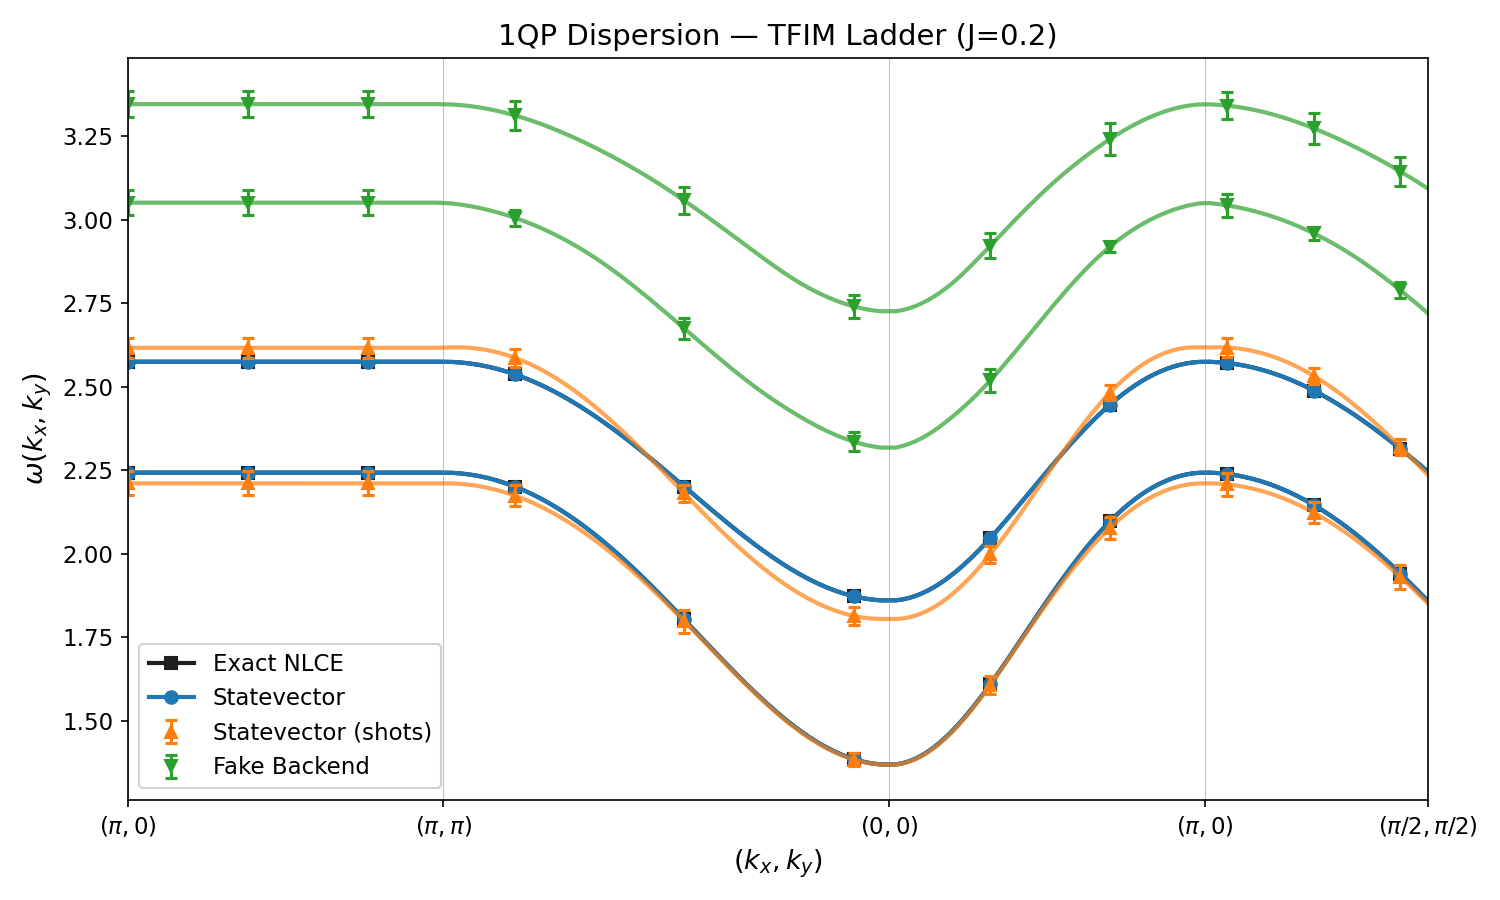
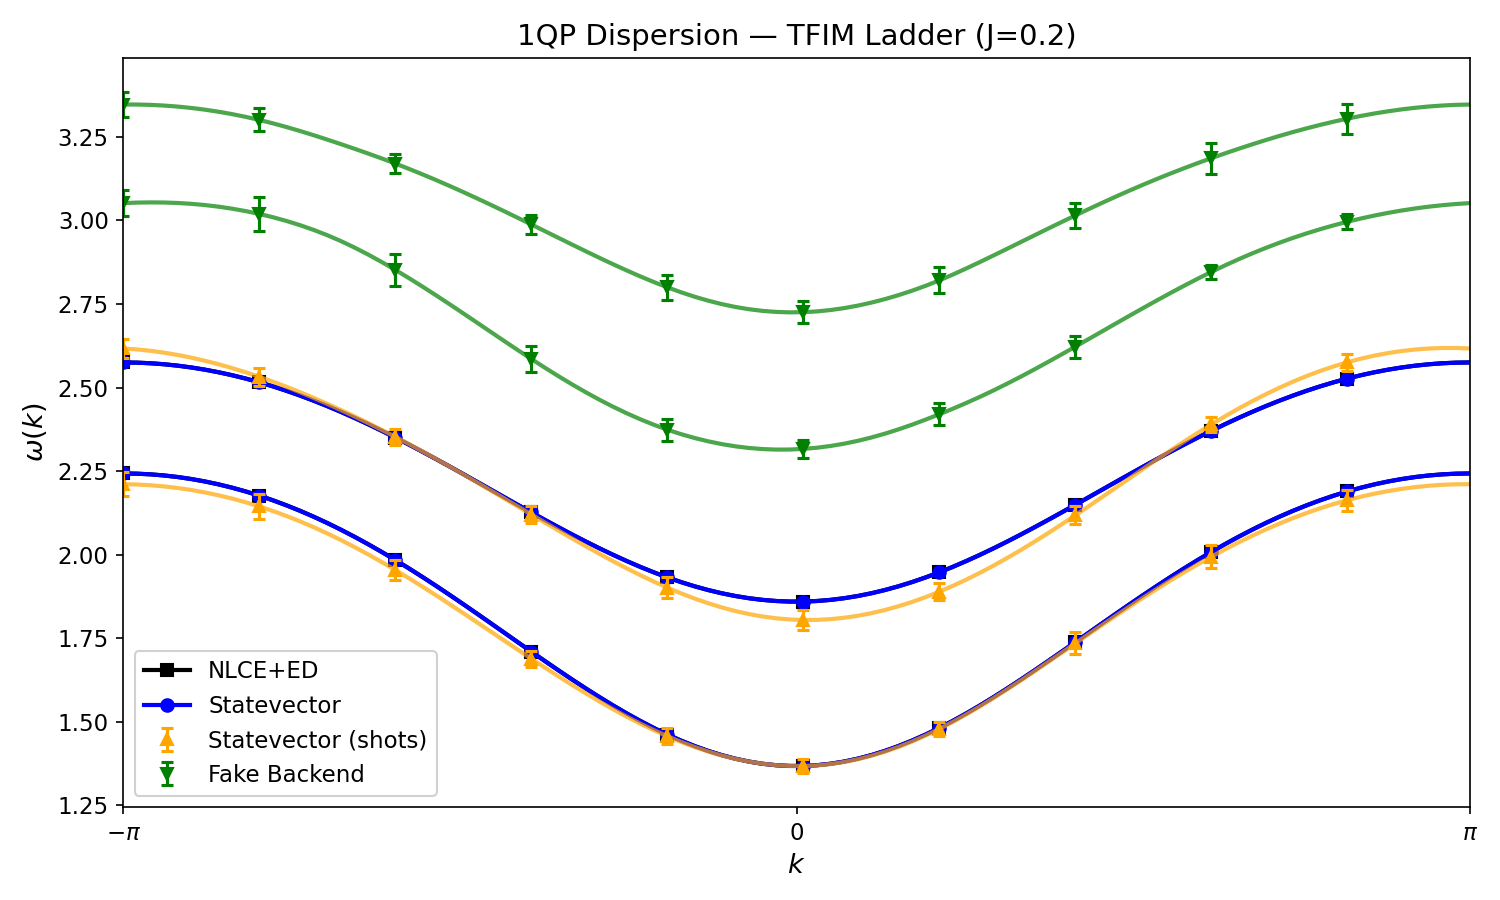
dispersion code correction

diff --git a/src/qcomp_nlce/simulation/vqe/plot_dispersion_ladder.py b/src/qcomp_nlce/simulation/vqe/plot_dispersion_ladder.py
@@ -16,62 +16,12 @@ def _cluster_dir(n_rungs: int, J: float, hl: float) -> Path:
     return DATA_DIR / f"j{int(J*100)}_hl{int(hl*100)}" / f"{n_rungs}x2"
 
 
-# ── High-symmetry path ──────────────────────────────────────────────────────
-
-def high_symmetry_path(n_points_per_segment: int = 50):
-    """Build the high-symmetry path:
-        (pi,0) -> (pi,pi) -> (0,0) -> (pi,0) -> (pi/2,pi/2)
-
-    Returns:
-        kxs, kys: arrays of (kx, ky) along the path
-        tick_positions: cumulative-distance positions of the corner points
-        tick_labels: labels for the corner points
-    """
-    corners = [
-        (np.pi, 0),
-        (np.pi, np.pi),
-        (0, 0),
-        (np.pi, 0),
-        (np.pi / 2, np.pi / 2),
-    ]
-    labels = [
-        r"$(\pi,0)$",
-        r"$(\pi,\pi)$",
-        r"$(0,0)$",
-        r"$(\pi,0)$",
-        r"$(\pi/2,\pi/2)$",
-    ]
-
-    kxs, kys, dists = [], [], []
-    cum_dist = 0.0
-    tick_positions = [0.0]
-
-    for i in range(len(corners) - 1):
-        x0, y0 = corners[i]
-        x1, y1 = corners[i + 1]
-        seg_len = np.sqrt((x1 - x0) ** 2 + (y1 - y0) ** 2)
-
-        # Don't duplicate the start point of each segment (except the very first)
-        n = n_points_per_segment
-        t = np.linspace(0, 1, n, endpoint=(i == len(corners) - 2))
-        if i > 0:
-            t = t[1:]  # skip duplicate corner
-
-        for ti in t:
-            kxs.append(x0 + ti * (x1 - x0))
-            kys.append(y0 + ti * (y1 - y0))
-            dists.append(cum_dist + ti * seg_len)
-
-        cum_dist += seg_len
-        tick_positions.append(cum_dist)
-
-    return (
-        np.array(kxs),
-        np.array(kys),
-        np.array(dists),
-        tick_positions,
-        labels,
-    )
+def k_vals(n_points: int = 100):
+   
+    ks = np.linspace(-np.pi, np.pi, n_points)
+    tick_positions = [-np.pi, 0.0, np.pi]
+    tick_labels = [r"$-\pi$", r"$0$", r"$\pi$"]
+    return ks, tick_positions, tick_labels
 
 
 # ── Loading ──────────────────────────────────────────────────────────────────
@@ -120,10 +70,10 @@ def plot_nlce_ladder(
     J: float,
     hl: float,
     save: bool = True,
-    n_points_per_segment: int = 50,
+    n_points: int = 100,
 ):
-    """Plot NLCE ladder dispersion along the high-symmetry BZ path."""
-    kxs, kys, dists, tick_pos, tick_labels = high_symmetry_path(n_points_per_segment)
+    """Plot NLCE ladder dispersion along k = 0 to pi."""
+    ks, tick_pos, tick_labels = k_vals(n_points)
 
     # Load all needed cluster sizes
     all_n = sorted(set(n for pair in cluster_pairs for n in pair))
@@ -133,44 +83,42 @@ def plot_nlce_ladder(
 
     # Style constants matching reference figure
     COLORS = {
-        "ed": "#1f1f1f",       # black — Exact NLCE
-        "sv": "#1f77b4",       # blue — Statevector
-        "sv_shots": "#ff7f0e", # orange — Statevector (shots)
-        "fb": "#2ca02c",       # green — Fake Backend
+        "ed": "black",       
+        "sv": "blue",       
+        "sv_shots":"orange", 
+        "fb": "green",       
     }
     MARKERS = {
-        "ed": "s",             # square
-        "sv": "o",             # circle
-        "sv_shots": "^",       # triangle up
-        "fb": "v",             # triangle down
+        "ed": "s",             
+        "sv": "o",             
+        "sv_shots": "^",       
+        "fb": "v",             
     }
     LW = 2.0
     MS = 6
-    # Subsample points for markers so they don't overlap
-    n_k = len(dists)
+    n_k = len(ks)
     marker_every = max(1, n_k // 10)
 
     for idx, (n_big, n_small) in enumerate(cluster_pairs):
         big, small = cache[n_big], cache[n_small]
-        n_max = 2 * n_big  # total qubits in biggest cluster
 
         # ED — two bands
         if big["ed"] is not None and small["ed"] is not None:
-            disp = np.array([dispersion_ladder_thermodynamic(kx, ky, big["ed"], small["ed"])
-                             for kx, ky in zip(kxs, kys)])  # shape (n_k, 2)
+            disp = np.array([dispersion_ladder_thermodynamic(k, big["ed"], small["ed"])
+                             for k in ks])  # shape (n_k, 2)
             for band in range(disp.shape[1]):
-                label = f"Exact NLCE" if band == 0 else None
-                ax.plot(dists, disp[:, band], '-', color=COLORS["ed"],
+                label = "NLCE+ED" if band == 0 else None
+                ax.plot(ks, disp[:, band], '-', color=COLORS["ed"],
                         marker=MARKERS["ed"], markevery=marker_every, markersize=MS,
                         linewidth=LW, label=label)
 
         # Exact SV (VQE) — two bands
         if big["sv"] is not None and small["sv"] is not None:
-            disp = np.array([dispersion_ladder_thermodynamic(kx, ky, big["sv"], small["sv"])
-                             for kx, ky in zip(kxs, kys)])
+            disp = np.array([dispersion_ladder_thermodynamic(k, big["sv"], small["sv"])
+                             for k in ks])
             for band in range(disp.shape[1]):
-                label = f"Statevector" if band == 0 else None
-                ax.plot(dists, disp[:, band], '-', color=COLORS["sv"],
+                label = "Statevector" if band == 0 else None
+                ax.plot(ks, disp[:, band], '-', color=COLORS["sv"],
                         marker=MARKERS["sv"], markevery=marker_every, markersize=MS,
                         linewidth=LW, label=label)
 
@@ -178,8 +126,8 @@ def plot_nlce_ladder(
         if big["sv_shots"] and small["sv_shots"]:
             n_reps = min(len(big["sv_shots"]), len(small["sv_shots"]))
             all_disp = np.array([
-                [dispersion_ladder_thermodynamic(kx, ky, big["sv_shots"][r], small["sv_shots"][r])
-                 for kx, ky in zip(kxs, kys)]
+                [dispersion_ladder_thermodynamic(k, big["sv_shots"][r], small["sv_shots"][r])
+                 for k in ks]
                 for r in range(n_reps)
             ])  # shape (n_reps, n_k, 2)
             mean = np.mean(all_disp, axis=0)  # (n_k, 2)
@@ -187,10 +135,10 @@ def plot_nlce_ladder(
                    if n_reps > 1 else np.zeros_like(mean))
             marker_idx = np.arange(0, n_k, marker_every)
             for band in range(mean.shape[1]):
-                label = f"Statevector (shots)" if band == 0 else None
-                ax.plot(dists, mean[:, band], '-', color=COLORS["sv_shots"],
+                label = "Statevector (shots)" if band == 0 else None
+                ax.plot(ks, mean[:, band], '-', color=COLORS["sv_shots"],
                         linewidth=LW, alpha=0.7)
-                ax.errorbar(dists[marker_idx], mean[marker_idx, band],
+                ax.errorbar(ks[marker_idx], mean[marker_idx, band],
                             yerr=sem[marker_idx, band],
                             fmt=MARKERS["sv_shots"], color=COLORS["sv_shots"],
                             markersize=MS, capsize=3, capthick=1.5,
@@ -200,8 +148,8 @@ def plot_nlce_ladder(
         if big["fb"] and small["fb"]:
             n_reps = min(len(big["fb"]), len(small["fb"]))
             all_disp = np.array([
-                [dispersion_ladder_thermodynamic(kx, ky, big["fb"][r], small["fb"][r])
-                 for kx, ky in zip(kxs, kys)]
+                [dispersion_ladder_thermodynamic(k, big["fb"][r], small["fb"][r])
+                 for k in ks]
                 for r in range(n_reps)
             ])  # shape (n_reps, n_k, 2)
             mean = np.mean(all_disp, axis=0)
@@ -209,24 +157,20 @@ def plot_nlce_ladder(
                    if n_reps > 1 else np.zeros_like(mean))
             marker_idx = np.arange(0, n_k, marker_every)
             for band in range(mean.shape[1]):
-                label = f"Fake Backend" if band == 0 else None
-                ax.plot(dists, mean[:, band], '-', color=COLORS["fb"],
+                label = "Fake Backend" if band == 0 else None
+                ax.plot(ks, mean[:, band], '-', color=COLORS["fb"],
                         linewidth=LW, alpha=0.7)
-                ax.errorbar(dists[marker_idx], mean[marker_idx, band],
+                ax.errorbar(ks[marker_idx], mean[marker_idx, band],
                             yerr=sem[marker_idx, band],
                             fmt=MARKERS["fb"], color=COLORS["fb"],
                             markersize=MS, capsize=3, capthick=1.5,
                             linewidth=0, elinewidth=1.5, label=label)
 
-    # Vertical lines at high-symmetry points
-    for tp in tick_pos:
-        ax.axvline(tp, color='gray', linewidth=0.5, linestyle='-', alpha=0.5)
-
     ax.set_xticks(tick_pos)
     ax.set_xticklabels(tick_labels, fontsize=12)
     ax.set_xlim(tick_pos[0], tick_pos[-1])
-    ax.set_xlabel(r"$(k_x, k_y)$", fontsize=13)
-    ax.set_ylabel(r"$\omega(k_x, k_y)$", fontsize=13)
+    ax.set_xlabel(r"$k$", fontsize=13)
+    ax.set_ylabel(r"$\omega(k)$", fontsize=13)
     ax.set_title(f"1QP Dispersion — TFIM Ladder (J={J})", fontsize=14)
     ax.legend(fontsize=11, framealpha=0.9)
     ax.tick_params(axis='both', labelsize=11)

diff --git a/src/qcomp_nlce/utils/dispersion.py b/src/qcomp_nlce/utils/dispersion.py
@@ -67,14 +67,14 @@ def project_ladder_to_k_space(
 
 
 def dispersion_ladder_thermodynamic(
-    kx: float, ky: float, H_eff_Nb: np.ndarray, H_eff_Ns: np.ndarray
+    k: float, H_eff_Nb: np.ndarray, H_eff_Ns: np.ndarray
 ) -> np.ndarray:
-   
+
     Nb = H_eff_Nb.shape[0] // 2  # number of rungs in bigger cluster
     Ns = H_eff_Ns.shape[0] // 2  # number of rungs in smaller cluster
 
-    H_k_big = project_ladder_to_k_space(H_eff_Nb, Nb, kx)
-    H_k_small = project_ladder_to_k_space(H_eff_Ns, Ns, kx)
+    H_k_big = project_ladder_to_k_space(H_eff_Nb, Nb, k)
+    H_k_small = project_ladder_to_k_space(H_eff_Ns, Ns, k)
 
     H_k_inf = H_k_big - H_k_small
     evals = np.sort(np.real(np.linalg.eigvals(H_k_inf)))
